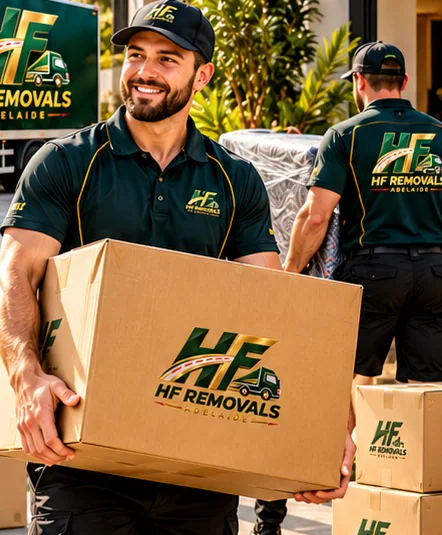
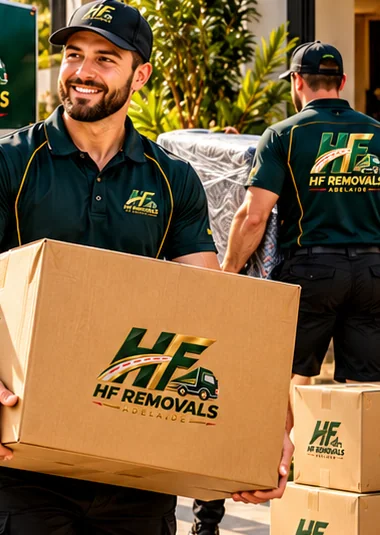
feat: polish HF photographic website experience
Claude-Session: https://claude.ai/code/session_017o6fL1nAa3sMZJuqQA7ibE

diff --git a/app/components/fleet.css b/app/components/fleet.css
@@ -526,7 +526,7 @@
     align-items: center;
     column-gap: 12px;
   }
-  .truck-pick-price { grid-row: 1 / span 3; grid-column: 2; flex-direction: column; align-items: flex-end; gap: 0; margin: 0; }
+  .truck-pick-price { grid-row: 2 / span 3; grid-column: 2; flex-direction: column; align-items: flex-end; gap: 0; margin: 0; }
   .truck-pick-check { top: 8px; right: auto; left: auto; display: none; }
   .truck-pick-upgrade .truck-pick-body { display: flex; }
   .truck-values { grid-template-columns: minmax(0, 1fr); }
@@ -673,8 +673,6 @@
 .packing-side { display: grid; gap: 18px; }
 .packing-photo { position: relative; margin: 0; overflow: hidden; border: 1px solid var(--hf-gold-500); border-radius: var(--radius-2xl); box-shadow: var(--shadow-overlay); }
 .packing-photo img { display: block; width: 100%; height: auto; }
-.reviews-photo { position: relative; margin: 0 0 clamp(20px, 3vw, 32px); overflow: hidden; border: 1px solid var(--border-gold); border-radius: var(--radius-2xl); aspect-ratio: 21 / 8; }
-.reviews-photo img { display: block; width: 100%; height: 100%; object-fit: cover; object-position: 50% 35%; }
 .areas-split { display: grid; grid-template-columns: minmax(0, 0.8fr) minmax(0, 1.4fr); gap: clamp(18px, 3vw, 36px); align-items: start; }
 .areas-photo { position: relative; margin: 0; overflow: hidden; border: 1px solid var(--hf-gold-500); border-radius: var(--radius-2xl); box-shadow: var(--shadow-overlay); }
 .areas-photo img { display: block; width: 100%; height: auto; }
@@ -686,7 +684,6 @@
   .areas-split { grid-template-columns: minmax(0, 1fr); }
   .areas-split .area-links { grid-template-columns: repeat(2, minmax(0, 1fr)); }
   .truck-band-gallery { aspect-ratio: auto; }
-  .reviews-photo { aspect-ratio: 16 / 9; }
 }
 @media (max-width: 560px) {
   .areas-split .area-links { grid-template-columns: minmax(0, 1fr); }
@@ -711,3 +708,39 @@
 /* The native radio sits above the card body so the whole card is the click/focus target. */
 .truck-pick-input { z-index: 1; }
 .truck-pick-check { pointer-events: none; z-index: 2; }
+
+/* ===== Final polish pass ===== */
+.hero h1 { text-wrap: balance; }
+
+/* Reviews: the photo is framed at its native size beside the rating card (never stretched full-width). */
+.reviews-header-grid { grid-template-columns: minmax(0, 1fr); margin-bottom: 28px; }
+.reviews-feature { display: grid; grid-template-columns: minmax(0, 620px) minmax(0, 360px); gap: clamp(20px, 3vw, 40px); align-items: center; justify-content: start; margin: 0 0 clamp(24px, 3vw, 36px); }
+.reviews-photo { margin: 0; aspect-ratio: auto; overflow: hidden; border: 1px solid var(--hf-gold-500); border-radius: var(--radius-2xl); box-shadow: var(--shadow-overlay); line-height: 0; }
+.reviews-photo img { display: block; width: 100%; height: auto; object-fit: initial; }
+@media (max-width: 900px) { .reviews-feature { grid-template-columns: minmax(0, 1fr); } }
+
+/* Service-area photo stays at roughly native size */
+.areas-photo { max-width: 400px; }
+
+/* Director portrait: the real photo, cropped in a frame so the face reads clearly. */
+.portrait-wrap { place-items: center; }
+.portrait-frame { position: relative; width: min(100%, 380px); aspect-ratio: 380 / 450; overflow: hidden; border: 1px solid var(--hf-gold-300); border-radius: 190px 190px 14px 14px; background: #cfd3d6; }
+.portrait-frame img { position: absolute; top: -1%; left: -22%; width: 144%; max-width: none; height: auto; border: 0; border-radius: 0; }
+
+/* Review avatars: ".review-author-wrap span" was overriding the avatar's centring. */
+.review-author-wrap .review-avatar { display: grid; place-items: center; flex: 0 0 34px; width: 34px; height: 34px; margin: 0; color: var(--on-primary); font-size: 0.8rem; font-weight: 900; line-height: 1; }
+
+/* Rating card balances the photo instead of floating beside empty space. */
+@media (min-width: 901px) { .reviews-feature { grid-template-columns: minmax(0, 620px) minmax(0, 1fr); } }
+.reviews-feature .rating-card-compact { width: 100%; max-width: 440px; justify-self: center; }
+@media (max-width: 900px) { .reviews-feature .rating-card-compact { max-width: none; } }
+
+/* Disabled (unavailable) radios must stay invisible: the card itself shows the state. */
+.truck-pick-input, .truck-pick-input:disabled { opacity: 0 !important; appearance: none; -webkit-appearance: none; }
+
+/* Readable notices on the dark booking page (was pale red on pink). */
+.wizard-notice { padding: 12px 16px; color: var(--hf-ruby-900); background: var(--hf-ivory); border: 1px solid var(--hf-ruby-600); border-left-width: 5px; border-radius: var(--radius-lg); font-weight: 600; line-height: 1.5; }
+
+@media (max-width: 380px) {
+  .hero-fleet-chips span { font-size: 0.62rem; letter-spacing: 0.04em; }
+}

diff --git a/app/components/Site.tsx b/app/components/Site.tsx
@@ -462,22 +462,24 @@ function ReviewsSection() {
               View the current rating and customer feedback directly on Google before choosing your mover.
             </p>
           </div>
-          <div className="rating-card-compact">
-            <div className="rating-card-top">
-              <span className="google-badge-pill">Google Verified</span>
-              <span className="rating-stars" aria-hidden="true" style={{ display: "inline-flex", gap: "2px" }}>{[...Array(5)].map((_, i) => <StarIcon key={i} size={14} />)}</span>
-            </div>
-            <strong>{google.rating.toFixed(1)} / 5.0</strong>
-            <p>Based on {google.reviewCount} customer reviews</p>
-            <a href={google.listingUrl} target="_blank" rel="noopener noreferrer" className="google-review-link">
-              Read all reviews on Google <span>→</span>
-            </a>
-          </div>
         </div>
 
-        <figure className="reviews-photo">
-          <Image src={hfImages.customersCrew.src} alt={hfImages.customersCrew.alt} width={hfImages.customersCrew.width} height={hfImages.customersCrew.height} sizes="(max-width: 900px) 92vw, 80vw" />
-        </figure>
+        <div className="reviews-feature">
+          <figure className="reviews-photo">
+            <Image src={hfImages.customersCrew.src} alt={hfImages.customersCrew.alt} width={hfImages.customersCrew.width} height={hfImages.customersCrew.height} sizes="(max-width: 900px) 92vw, 80vw" />
+          </figure>
+            <div className="rating-card-compact">
+              <div className="rating-card-top">
+                <span className="google-badge-pill">Google Verified</span>
+                <span className="rating-stars" aria-hidden="true" style={{ display: "inline-flex", gap: "2px" }}>{[...Array(5)].map((_, i) => <StarIcon key={i} size={14} />)}</span>
+              </div>
+              <strong>{google.rating.toFixed(1)} / 5.0</strong>
+              <p>Based on {google.reviewCount} customer reviews</p>
+              <a href={google.listingUrl} target="_blank" rel="noopener noreferrer" className="google-review-link">
+                Read all reviews on Google <span>→</span>
+              </a>
+            </div>
+        </div>
 
         <div className="reviews-cards-grid" aria-label="Customer reviews verified from supplied Google screenshots">
           {googleReviews.map((review) => (
@@ -513,7 +515,9 @@ function LeadershipSection() {
       <div className="container leadership-grid">
         <div className="portrait-wrap">
           <div className="portrait-backdrop" />
-          <Image src={business.ceoImage} alt="Muhammad Rasheed, Company Director of HF Removals Adelaide" width={800} height={1000} sizes="(max-width: 900px) 90vw, 40vw" quality={85} style={{ objectPosition: "50% 12%" }} />
+          <div className="portrait-frame">
+            <Image src={business.ceoImage} alt="Muhammad Rasheed, Company Director of HF Removals Adelaide" width={800} height={1000} sizes="(max-width: 900px) 90vw, 40vw" quality={85}  />
+          </div>
           <span className="portrait-accent" />
         </div>
         <div>

diff --git a/lib/site-data.ts b/lib/site-data.ts
@@ -165,10 +165,10 @@ export type TruckClass = "HR" | "MR" | "Small";
  */
 export const hfImages = {
   heroFleet: { src: "/images/hf/hero/hf-hero-fleet-crew.webp", width: 667, height: 360, alt: "HF Removals green truck and two movers carrying wrapped furniture outside a modern Adelaide home" },
-  crewService: { src: "/images/hf/crew/hf-crew-service.webp", width: 442, height: 535, alt: "Smiling HF Removals mover carrying an HF-branded moving box with a crew mate and furniture behind" },
+  crewService: { src: "/images/hf/crew/hf-crew-service.webp", width: 380, height: 535, alt: "Smiling HF Removals mover carrying an HF-branded moving box with a crew mate and furniture behind" },
   carefulHandling: { src: "/images/hf/protection/hf-careful-handling.webp", width: 460, height: 372, alt: "Two HF Removals movers carrying a mattress wrapped in protective film past stacked HF boxes and moving blankets" },
   customersCrew: { src: "/images/hf/crew/hf-customers-crew.webp", width: 622, height: 310, alt: "HF Removals truck and crew carrying wrapped furniture at a customer's home" },
-  serviceArea: { src: "/images/hf/locations/hf-adelaide-service-area.webp", width: 430, height: 300, alt: "HF Removals truck driving along an Adelaide road" },
+  serviceArea: { src: "/images/hf/locations/hf-adelaide-service-area.webp", width: 390, height: 262, alt: "HF Removals truck driving along an Adelaide road" },
 } as const;
 
 /** Customer-facing message when no active vehicle of the chosen class can take an online booking. */
@@ -232,7 +232,7 @@ export const crewUpgradePackages = [
 ] as const;
 
 /** Thumbnail for pickers/summaries; the crew-upgrade has no truck of its own, so it shows the crew. */
-export const crewUpgradeImage = { src: "/images/hf/crew/hf-crew-service.webp", width: 442, height: 535, objectPosition: "50% 30%" } as const;
+export const crewUpgradeImage = { src: "/images/hf/crew/hf-crew-service.webp", width: 380, height: 535, objectPosition: "50% 30%" } as const;
 
 /**
  * Retired package, kept ONLY so historical bookings/holds made before the truck

diff --git a/app/book/BookingWizard.tsx b/app/book/BookingWizard.tsx
@@ -285,7 +285,7 @@ export function BookingWizard() {
         </p>
       )}
 
-      {error && <p className="mt-6 rounded-lg bg-red-50 px-4 py-3 text-red-700">{error}</p>}
+      {error && <p className="wizard-notice mt-6" role="alert">{error}</p>}
 
       {step === "details" && (
         <section className="mt-8 space-y-4">
@@ -298,7 +298,7 @@ export function BookingWizard() {
             </select>
           </label>
           <TruckPicker name="truck_package_id" value={packageId} onChange={choosePackage} required legend="Choose your truck" idPrefix="wizard-truck" unavailableIds={unavailableIds} />
-          {packageUnavailable && <p className="rounded-lg bg-red-50 px-4 py-3 text-red-700" role="alert">{TRUCK_UNAVAILABLE_MESSAGE}</p>}
+          {packageUnavailable && <p className="wizard-notice" role="alert">{TRUCK_UNAVAILABLE_MESSAGE}</p>}
           <div className="rounded-lg bg-neutral-50 px-4 py-3 text-sm text-neutral-600">
             <p><strong>Minimum service:</strong> {minimumServiceMinutes / 60} hours</p>
             <p className="mt-1">
@@ -336,7 +336,7 @@ export function BookingWizard() {
             <input type="date" className="mt-1 w-full rounded-lg border px-3 py-2" value={date} onChange={(e) => loadSlots(e.target.value)} />
           </label>
           {noCompatibleVehicle && (
-            <p className="rounded-lg bg-red-50 px-4 py-3 text-red-700">
+            <p className="wizard-notice" role="alert">
               {TRUCK_UNAVAILABLE_MESSAGE}
             </p>
           )}
